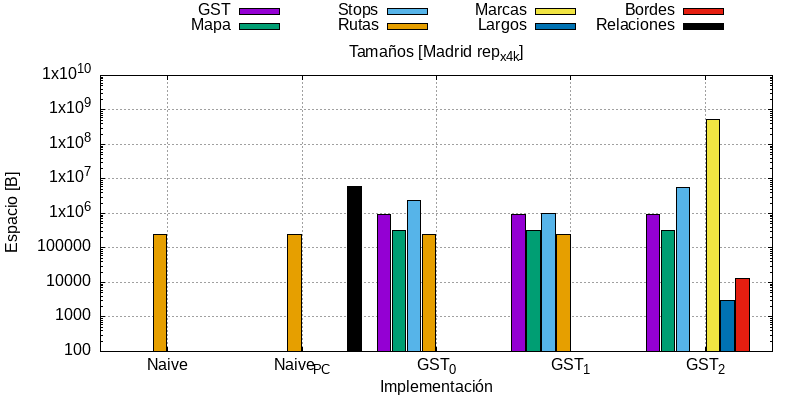
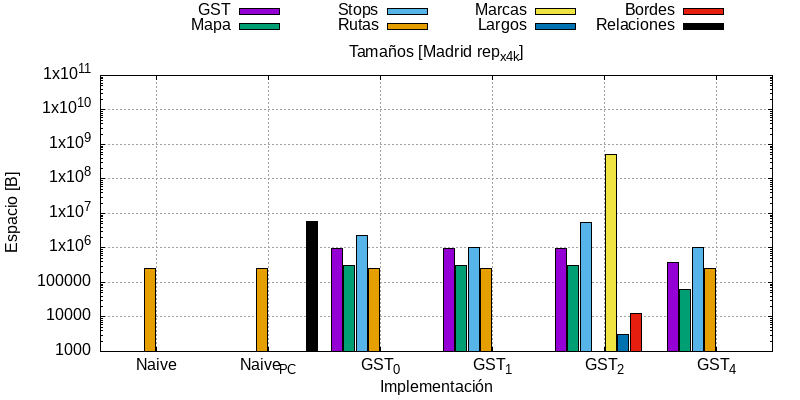
gráficas de repeticiones en cst, test_cst.cpp y otros.

diff --git a/codes_sdsl_cst/test_cst.cpp b/codes_sdsl_cst/test_cst.cpp
@@ -1,0 +1,97 @@
+#include <iostream>
+#include <algorithm>
+#include <string>
+#include <vector>
+#include <ctime>        // std::time
+#include <cstdlib>      // std::rand, std::srand
+#include <sdsl/vectors.hpp>
+#include <sdsl/suffix_trees.hpp>
+
+using namespace std;
+using namespace sdsl;
+
+int myrandom(int i){
+	srand(unsigned (time(0)));
+	return rand() % i;
+}
+
+void construir_sct3(int_vector<> iv){
+	cst_sct3<csa_wt<wt_int<rrr_vector<>>>> cst_sct3;
+	unsigned t0 = clock();
+	construct_im(cst_sct3, iv);
+	unsigned t1 = clock();
+    double t = (((double)(t1 - t0))/CLOCKS_PER_SEC) * 1000000;
+    long long bytesCST = size_in_bytes(cst_sct3);
+    cout << bytesCST << "\t" << t << "\t";
+}
+
+void construir_sada(int_vector<> iv){
+	cst_sada<csa_wt<wt_int<rrr_vector<>>>> cst_sada;
+	unsigned t0 = clock();	
+	construct_im(cst_sada, iv);
+	unsigned t1 = clock();
+    double t = (((double)(t1 - t0))/CLOCKS_PER_SEC) * 1000000;
+    long long bytesCST = size_in_bytes(cst_sada);
+    cout << bytesCST << "\t" << t << "\t";
+}
+
+void print_vector(vector<int> x){
+	for(int i=0; i<x.size(); i++){
+		cout << x[i] << " ";
+	}
+	cout << endl;
+}
+
+void print_intvector(int_vector<> x){
+	for(int i=0; i<x.size(); i++){
+		cout << x[i] << " ";
+	}
+	cout << endl;
+}
+
+int main(int argc, char const *argv[]){
+	if(argc < 3){
+		cout << "ERROR! Faltan argumentos. Ejemplo: " << endl;
+		cout << argv[0] << " <largo_permutacion> <cantidad_concatenaciones_max>" << endl;
+		return -1;
+	}
+
+	int sigma = (int) atoi(argv[1]);
+	int rep = (int) atoi(argv[2]);
+	cout << "largo alfabeto: " << sigma << endl;
+	cout << "repeticiones exp: " << rep << endl;
+
+	vector<int> x_shuffled(sigma);
+	for(int i=0; i<sigma; i++){
+		x_shuffled[i] = i+1;
+	}
+	random_shuffle(begin(x_shuffled), end(x_shuffled), myrandom);
+
+	cout << "N\tintv-unc{[B]}\t";
+	cout << "sct3-unc_{[B]}\tsct3-unc_{[us]}\tsada-unc_{[B]}\tsada-unc_{[us]}\tintv-suc{[B]}\t";
+	cout << "sct3-suc_{[B]}\tsct3-suc_{[us]}\tsada-suc_{[B]}\tsada-suc_{[us]}" << endl;
+	for(int i=1; i<=rep; i++){
+		int lExp = sigma * i;
+		int_vector<> ivShuffle(lExp);
+		for(int j=0; j<lExp; j++){
+			ivShuffle[j] = x_shuffled[j%sigma];
+		}
+		cout << lExp << "\t" << size_in_bytes(ivShuffle) << "\t";
+
+		// construir sin comprimir
+		construir_sct3(ivShuffle);
+		construir_sada(ivShuffle);
+
+		util::bit_compress(ivShuffle);
+		cout << size_in_bytes(ivShuffle) << "\t";
+
+		// construir comprimidos
+		construir_sct3(ivShuffle);
+		construir_sada(ivShuffle);
+
+		cout << endl;
+	}
+
+	
+	return 0;
+}

diff --git a/codes_sdsl_cst/TopoRel_GST_4.cpp b/codes_sdsl_cst/TopoRel_GST_4.cpp
@@ -729,7 +729,7 @@ void TopoRelGST_4::sizeEstructura(){
         }
     }
     double porcentaje = (bitsUno+0.0)/bitsTotal*100;
-    cout << "marcas [B]: " << bytesStops << endl;
+    cout << "stops [B]: " << bytesStops << endl;
     // Calculo de los bytes para MAPA
     unsigned long long bytesMapa = 0;
     for(int i=0; i<gstMapa.size(); i++){
